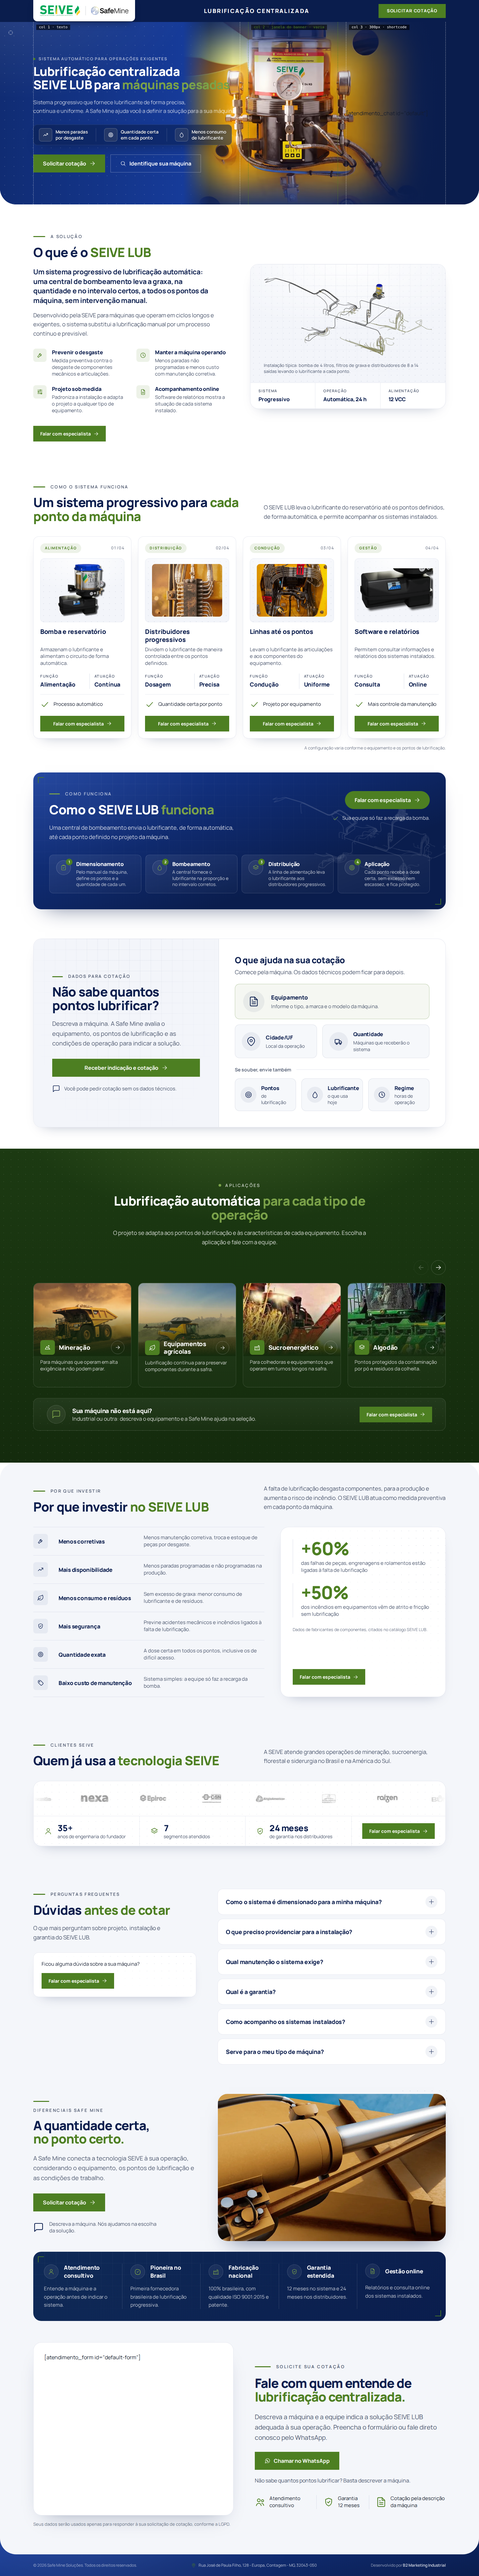
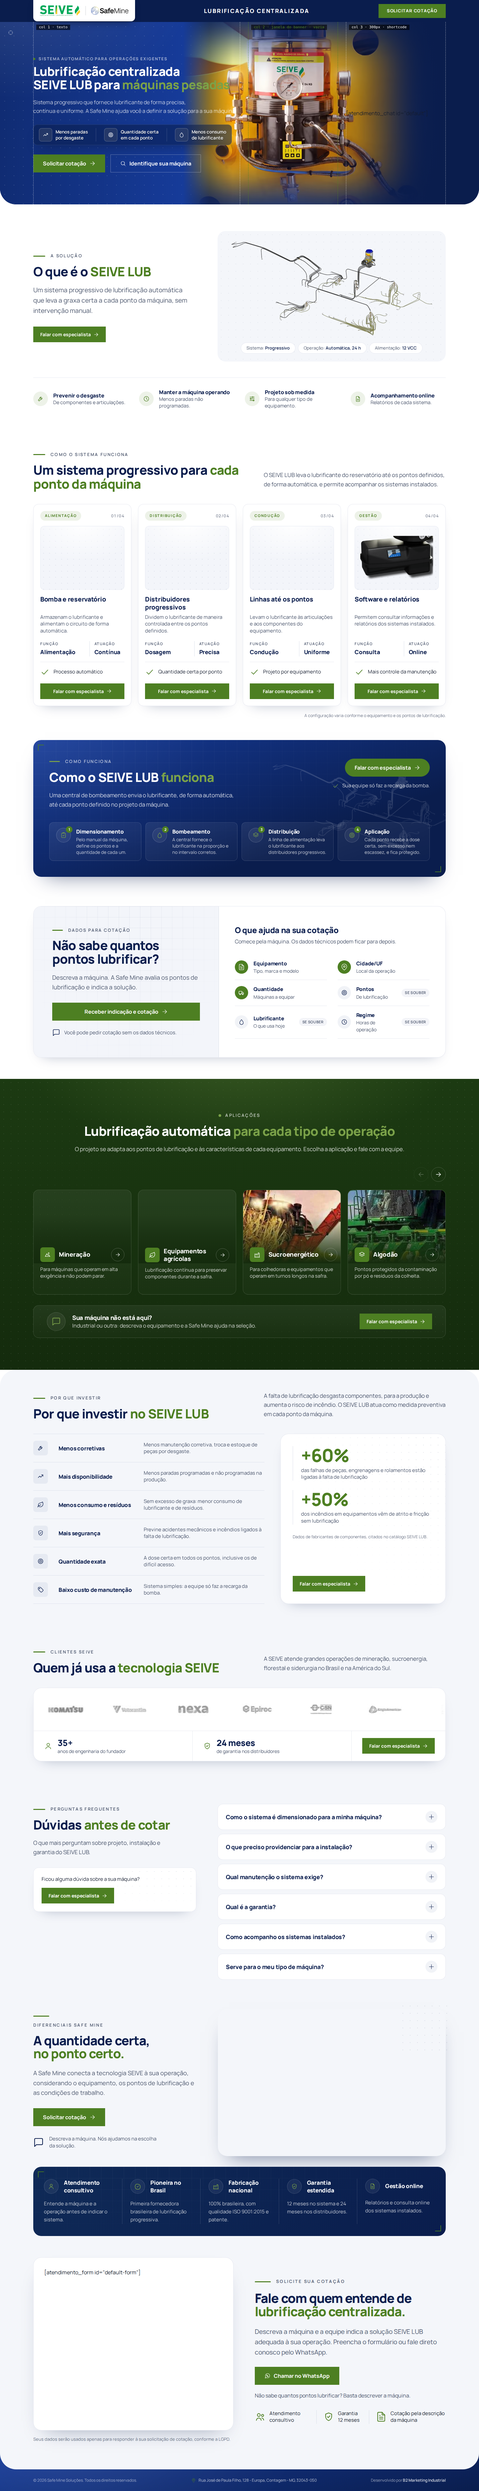
style: seções "A solução", "Dados para cotação" e clientes mais leves
- solucao: só título, uma frase e CTA ao lado do esquemático; ficha em selos
  e as 4 finalidades numa régua de uma linha.
- identificar: o lado direito vira checklist em duas colunas, sem caixas,
  com selo "Se souber" nos opcionais; textos encurtados.
- clientes: sai a contagem de segmentos; 2 números e CTA, logos maiores.
- aplicacoes: título e texto em uma linha no desktop.

Changed region(s): [[0.0, 0.0, 1.0, 0.7784], [0.0625, 0.8096, 0.9375, 0.9964], [0.5625, 0.1245, 0.5938, 0.1557]]

diff --git a/src/data/sections/solucao.ts b/src/data/sections/solucao.ts
@@ -27,38 +27,30 @@ export const solution = {
   title: 'O que é o SEIVE LUB',
   /** Trecho do título em verde. */
   titleHighlight: 'SEIVE LUB',
-  lead: 'Um sistema progressivo de lubrificação automática: uma central de bombeamento leva a graxa, na quantidade e no intervalo certos, a todos os pontos da máquina, sem intervenção manual.',
-  text: 'Desenvolvido pela SEIVE para máquinas que operam em ciclos longos e exigentes, o sistema substitui a lubrificação manual por um processo contínuo e previsível.',
-  /** Para que serve: 4 finalidades, em grade 2×2. */
+  lead: 'Um sistema progressivo de lubrificação automática que leva a graxa certa a cada ponto da máquina, sem intervenção manual.',
   purposes: [
-    {
-      icon: 'wrench',
-      title: 'Prevenir o desgaste',
-      description: 'Medida preventiva contra o desgaste de componentes mecânicos e articulações.',
-    },
+    { icon: 'wrench', title: 'Prevenir o desgaste', description: 'De componentes e articulações.' },
     {
       icon: 'clock',
       title: 'Manter a máquina operando',
-      description: 'Menos paradas não programadas e menos custo com manutenção corretiva.',
+      description: 'Menos paradas não programadas.',
     },
     {
       icon: 'sliders',
       title: 'Projeto sob medida',
-      description: 'Padroniza a instalação e adapta o projeto a qualquer tipo de equipamento.',
+      description: 'Para qualquer tipo de equipamento.',
     },
     {
       icon: 'file-text',
       title: 'Acompanhamento online',
-      description: 'Software de relatórios mostra a situação de cada sistema instalado.',
+      description: 'Relatórios de cada sistema.',
     },
   ],
   scheme: {
     src: esquema,
     alt: 'Esquemático de uma instalação SEIVE LUB: bomba, filtros, distribuidores e linhas até os pontos da máquina',
   },
-  caption:
-    'Instalação típica: bomba de 4 litros, filtros de graxa e distribuidores de 8 a 14 saídas levando o lubrificante a cada ponto.',
-  /** Ficha técnica curta sob o esquemático. */
+  /** Ficha técnica curta, em selos sob o esquemático. */
   facts: [
     { label: 'Sistema', value: 'Progressivo' },
     { label: 'Operação', value: 'Automática, 24 h' },
@@ -69,9 +61,7 @@ export const solution = {
   title: string
   titleHighlight: string
   lead: string
-  text: string
   purposes: readonly [Purpose, Purpose, Purpose, Purpose]
   scheme: Photo
-  caption: string
   facts: readonly [Fact, Fact, Fact]
 }

diff --git a/src/data/sections/identificar.ts b/src/data/sections/identificar.ts
@@ -22,7 +22,7 @@ export interface SupportItem {
 export const supportPanel = {
   eyebrow: 'Dados para cotação',
   title: 'Não sabe quantos pontos lubrificar?',
-  text: 'Descreva a máquina. A Safe Mine avalia o equipamento, os pontos de lubrificação e as condições de operação para indicar a solução.',
+  text: 'Descreva a máquina. A Safe Mine avalia os pontos de lubrificação e indica a solução.',
   microcopy: 'Você pode pedir cotação sem os dados técnicos.',
   /** Rótulo do botão do bloco navy. */
   ctaLabel: 'Receber indicação e cotação',
@@ -30,16 +30,16 @@ export const supportPanel = {
   list: {
     title: 'O que ajuda na sua cotação',
     text: 'Comece pela máquina. Os dados técnicos podem ficar para depois.',
-    optionalLabel: 'Se souber, envie também',
+    optionalLabel: 'Se souber',
     optionalFrom: 3,
   },
   items: [
-    { icon: 'file', label: 'Equipamento', hint: 'Informe o tipo, a marca e o modelo da máquina.' },
+    { icon: 'file', label: 'Equipamento', hint: 'Tipo, marca e modelo' },
     { icon: 'pin', label: 'Cidade/UF', hint: 'Local da operação' },
-    { icon: 'truck', label: 'Quantidade', hint: 'Máquinas que receberão o sistema' },
-    { icon: 'target', label: 'Pontos', hint: 'de lubrificação' },
-    { icon: 'droplet', label: 'Lubrificante', hint: 'o que usa hoje' },
-    { icon: 'clock', label: 'Regime', hint: 'horas de operação' },
+    { icon: 'truck', label: 'Quantidade', hint: 'Máquinas a equipar' },
+    { icon: 'target', label: 'Pontos', hint: 'De lubrificação' },
+    { icon: 'droplet', label: 'Lubrificante', hint: 'O que usa hoje' },
+    { icon: 'clock', label: 'Regime', hint: 'Horas de operação' },
   ],
 } as const satisfies {
   eyebrow: string

diff --git a/src/data/sections/clientes.ts b/src/data/sections/clientes.ts
@@ -4,9 +4,10 @@
  * Logos da página 5 do catálogo SEIVE LUB 2024: são clientes da fabricante, não da
  * Safe Mine, e entraram com o aval da B2 em 01/11/2026 (docs/BRIEFING.md). Vieram do PDF
  * em baixa resolução (cerca de 75×22 px cada); troque pelos arquivos originais quando
- * chegarem. Nesta LP são 18 logos em carrossel, acima dos 4–8 da biblioteca.
+ * chegarem. Nesta LP são 18 logos em carrossel, acima dos 4–8 da biblioteca, e 2 números
+ * em vez de 3 (a contagem de segmentos saiu a pedido do usuário, 02/11/2026).
  *
- * Números: catálogo p. 2 (35 anos do fundador), p. 4 (7 segmentos) e p. 15 (garantia).
+ * Números: catálogo p. 2 (35 anos do fundador) e p. 15 (garantia).
  */
 import type { IconName } from '@data/icons'
 import type { Photo } from '@data/types'
@@ -66,7 +67,6 @@ export const clients = {
   ],
   metrics: [
     { icon: 'user', value: '35+', label: 'anos de engenharia do fundador' },
-    { icon: 'layers', value: '7', label: 'segmentos atendidos' },
     { icon: 'shield', value: '24 meses', label: 'de garantia nos distribuidores' },
   ],
 } as const satisfies {
@@ -75,5 +75,5 @@ export const clients = {
   titleHighlight: string
   text: string
   logos: readonly Photo[]
-  metrics: readonly [Metric, Metric, Metric]
+  metrics: readonly [Metric, Metric]
 }
